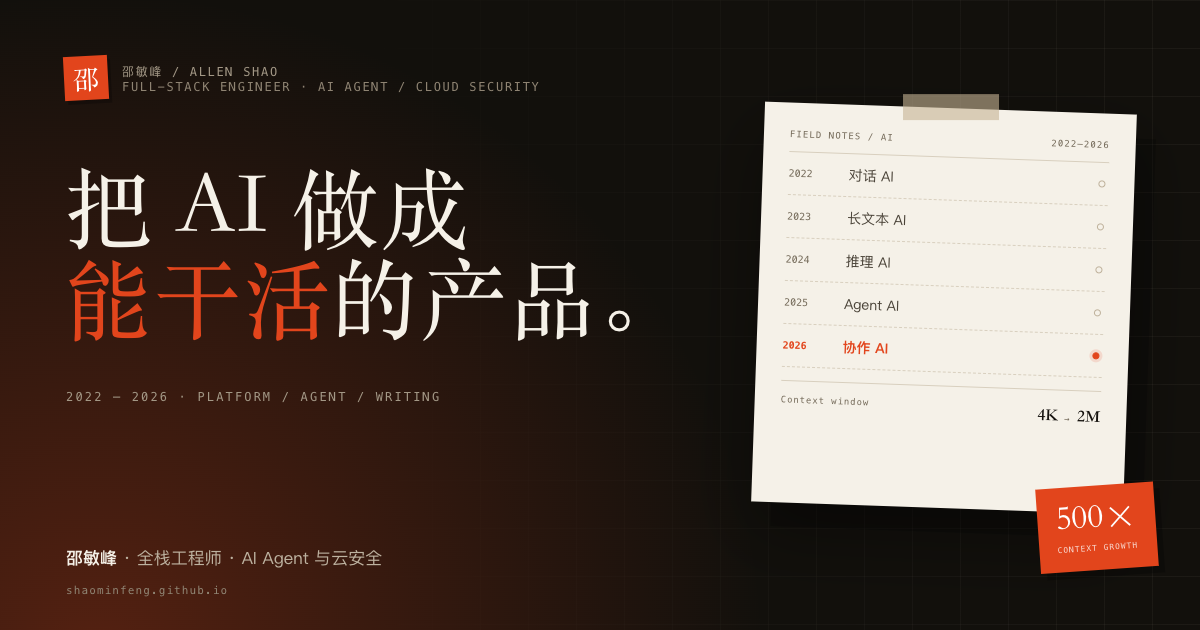
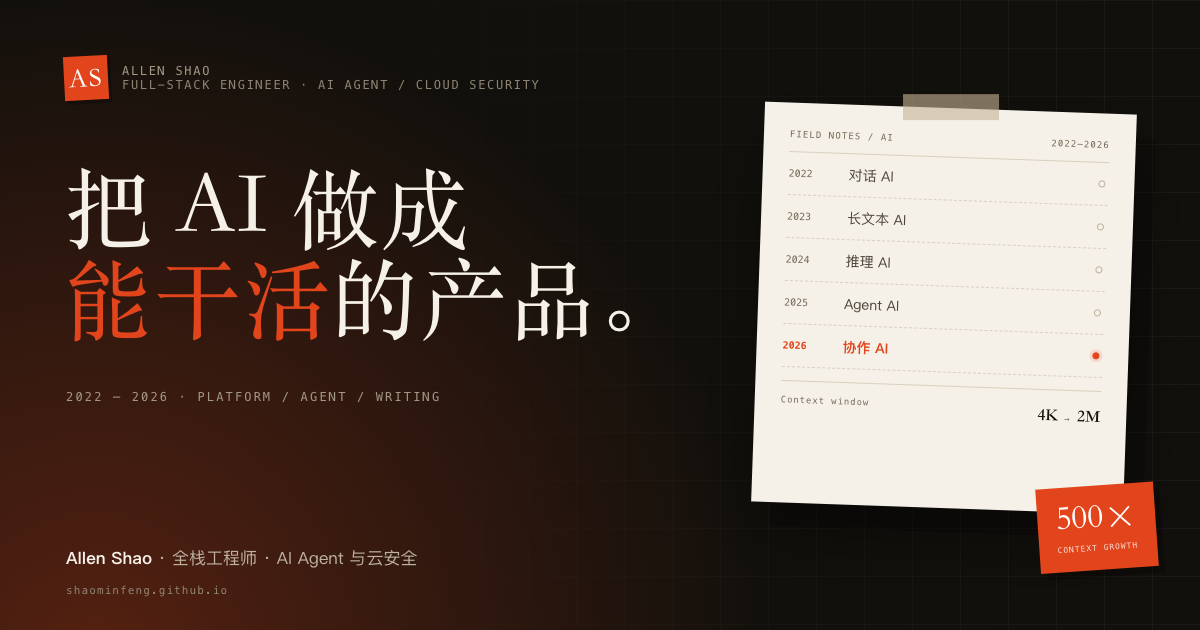
Rename display name to Allen Shao

Changed region(s): [[0.0617, 0.0905, 0.4317, 0.1508], [0.0308, 0.8746, 0.37, 0.9048]]

diff --git a/src/styles/global.css b/src/styles/global.css
@@ -1,5 +1,5 @@
 /* ————————————————————————————————
-   邵敏峰 · personal site
+   Allen Shao · personal site
    ———————————————————————————————— */
 
 :root {
@@ -162,7 +162,7 @@ a {
   background: var(--accent);
   color: #fff;
   font-family: var(--serif);
-  font-size: 21px;
+  font-size: 16px;
   line-height: 1;
   border-radius: 2px;
   box-shadow: 2px 3px 0 rgba(23, 20, 15, 0.14);
@@ -402,7 +402,8 @@ a {
 
 .hero h1 .name {
   display: block;
-  font-size: clamp(78px, 10.5vw, 146px);
+  font-size: clamp(60px, 7.8vw, 112px);
+  letter-spacing: -0.025em;
 }
 
 .hero h1 .en {
@@ -2075,7 +2076,7 @@ a.section-note:hover {
   }
 
   .hero h1 .name {
-    font-size: clamp(74px, 14vw, 118px);
+    font-size: clamp(56px, 9vw, 96px);
   }
 
   .about-grid,
@@ -2189,7 +2190,7 @@ a.section-note:hover {
   }
 
   .hero h1 .name {
-    font-size: clamp(66px, 19vw, 96px);
+    font-size: clamp(48px, 14vw, 72px);
   }
 
   .hero-line {

diff --git a/src/data/site.ts b/src/data/site.ts
@@ -1,10 +1,10 @@
 export const SITE = {
-  name: '邵敏峰',
+  name: 'Allen Shao',
   en: 'Allen Shao',
   role: '全栈工程师 · AI Agent 与云安全',
   tagline: '把 AI 从「会聊天」做成「能干活」。',
   description:
-    '邵敏峰（Allen Shao），全栈工程师，专注 AI Agent、云安全与开发者体验。3 年企业 AI 平台实践，写代码，也把踩过的坑写成 2.1 万字技术长文。',
+    'Allen Shao，全栈工程师，专注 AI Agent、云安全与开发者体验。3 年企业 AI 平台实践，写代码，也把踩过的坑写成 2.1 万字技术长文。',
   email: 'shaominfeng8@gmail.com',
   github: 'https://github.com/shaominfeng',
   siteUrl: 'https://shaominfeng.github.io',

diff --git a/README.md b/README.md
@@ -1,6 +1,6 @@
 # shaominfeng.github.io
 
-邵敏峰的个人主页：个人介绍 + 两个清晰入口（文章 / 项目）。
+Allen Shao 的个人主页：个人介绍 + 两个清晰入口（文章 / 项目）。
 
 **Live: https://shaominfeng.github.io/**
 
